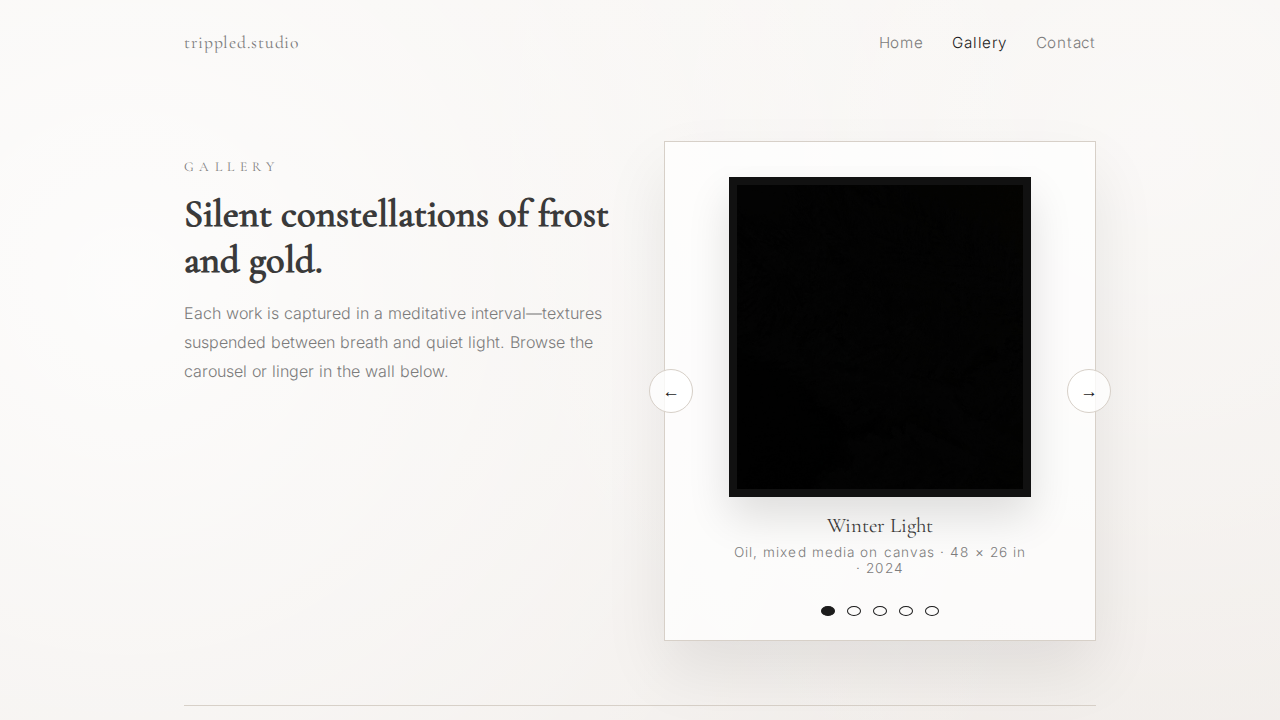
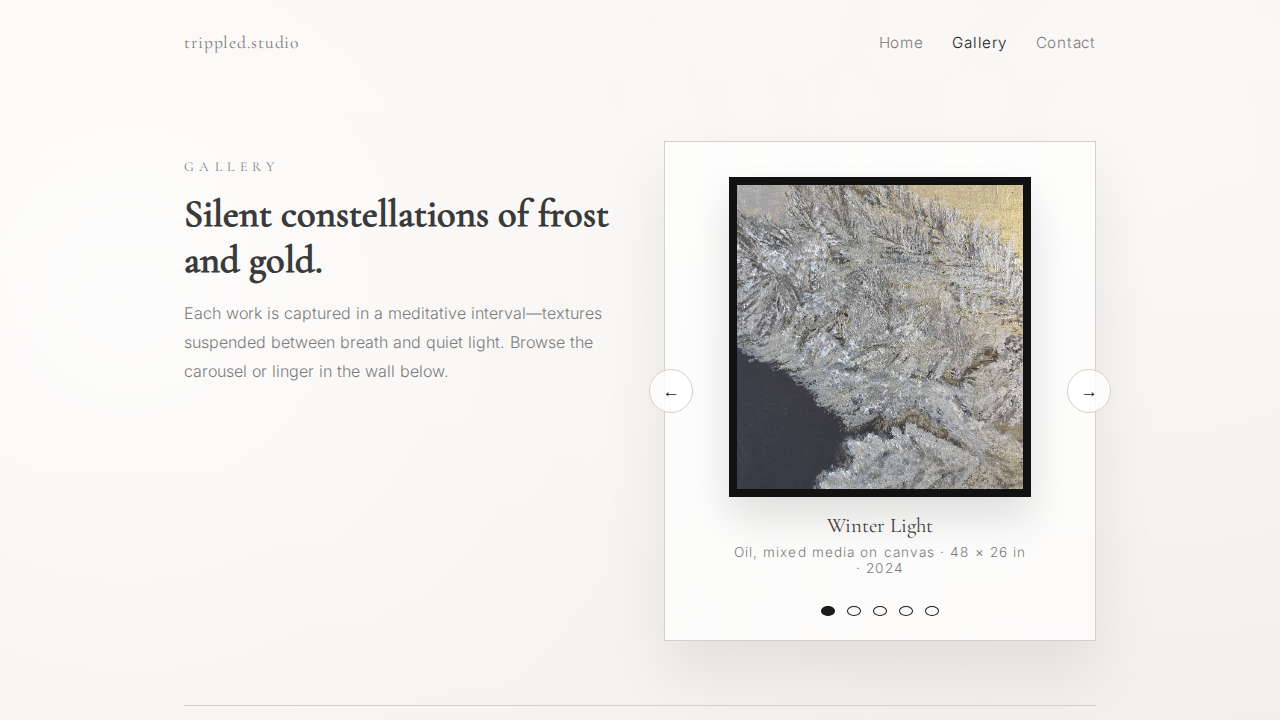
Fix image processing to preserve tones

Changed region(s): [[0.5625, 0.2444, 0.8125, 0.7028]]

diff --git a/process-images.js b/process-images.js
@@ -22,10 +22,7 @@ const files = [
     const x = Math.round((width - cropWidth) / 2);
     const y = Math.round((height - cropHeight) / 2);
 
-    image.crop({ x, y, w: cropWidth, h: cropHeight })
-         .normalize()
-         .contrast(0.05)
-         .brightness(0.02);
+    image.crop({ x, y, w: cropWidth, h: cropHeight });
 
     await image.write(outputPath);
     console.log(`Processed ${file} -> ${path.basename(outputPath)}`);
